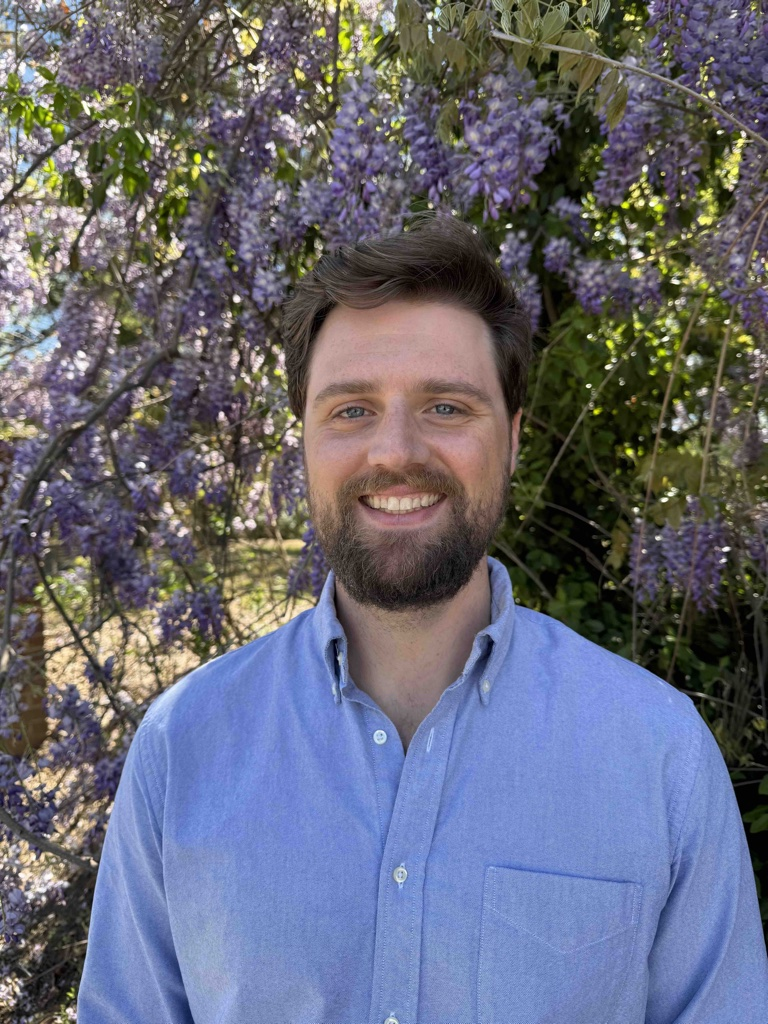
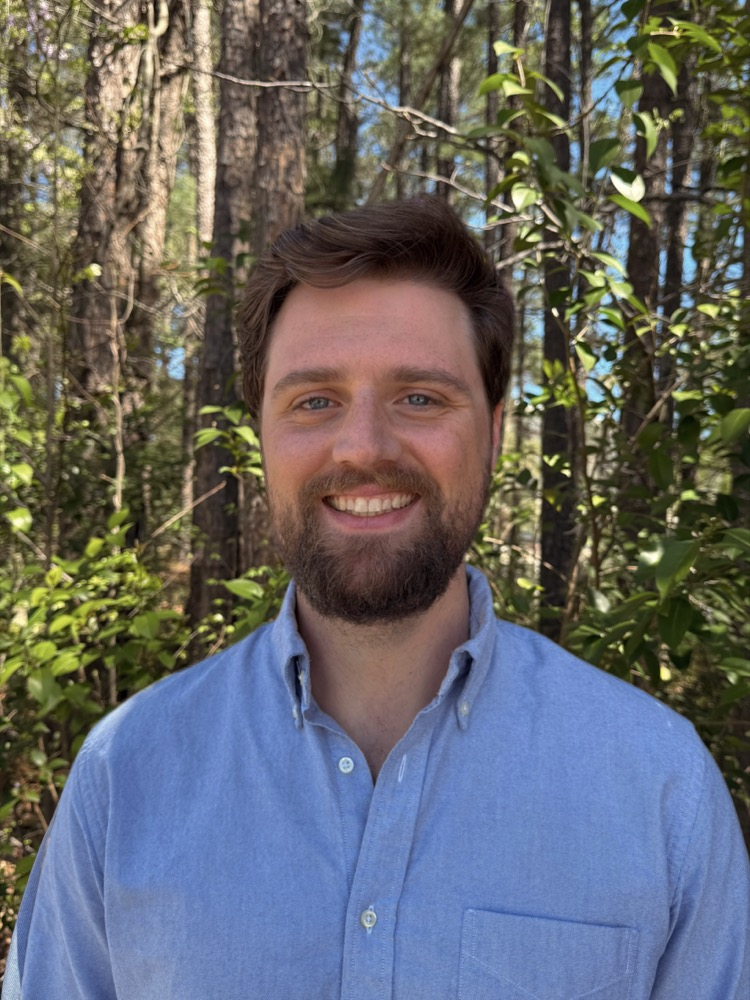
Switch homepage accent to green, swap and shrink hero portrait
- Accent #6b5b9a (lilac) -> #3a6b53 (green)
- New hero portrait, resized to 750x1000, cache-busted
- Shrink hero photo column so text leads

diff --git a/_layouts/home.html b/_layouts/home.html
@@ -31,7 +31,7 @@ layout: compress
       --ink: #1a1a1a;
       --ink-muted: #5a5651;
       --rule: #d8d2c4;
-      --accent: #6b5b9a;
+      --accent: #3a6b53;
       --accent-2: #3d6a8a;
       --serif: "Source Serif 4", Georgia, serif;
       --mono: "JetBrains Mono", ui-monospace, Menlo, monospace;
@@ -63,8 +63,8 @@ layout: compress
     nav.primary a { font-family: var(--mono); font-size: .82rem; text-transform: uppercase; letter-spacing: .08em; margin-left: 2rem; border: 0; color: var(--ink-muted); }
     nav.primary a:hover { color: var(--accent); }
 
-    .hero { display: grid; grid-template-columns: 1.05fr 1fr; gap: 4rem; align-items: center; padding: 5rem 0 4rem; }
-    .hero__img { aspect-ratio: 3/4; overflow: hidden; border: 1px solid var(--rule); }
+    .hero { display: grid; grid-template-columns: 0.62fr 1.38fr; gap: 4rem; align-items: center; padding: 5rem 0 4rem; }
+    .hero__img { aspect-ratio: 3/4; max-width: 260px; overflow: hidden; border: 1px solid var(--rule); }
     .hero__img img { width: 100%; height: 100%; object-fit: cover; display: block; }
     .hero__text h1 { font-family: var(--serif); font-weight: 500; font-size: clamp(2.2rem, 4.6vw, 3.6rem); line-height: 1.05; letter-spacing: -.02em; margin: 0 0 1.5rem; }
     .hero__text h1 em { font-style: italic; color: var(--accent); font-weight: 400; }
@@ -149,7 +149,7 @@ layout: compress
 
   <main class="container">
     <section class="hero">
-      <div class="hero__img"><img src="{{ '/images/Profile.jpeg' | relative_url }}" alt="{{ site.author.name }}"></div>
+      <div class="hero__img"><img src="{{ '/images/Profile.jpeg' | relative_url }}?v=2026c" alt="{{ site.author.name }}"></div>
       <div class="hero__text">
         <p class="meta">Postdoctoral researcher · UNC Chapel Hill</p>
         <h1>Reading rivers from <em>orbit</em>.</h1>
